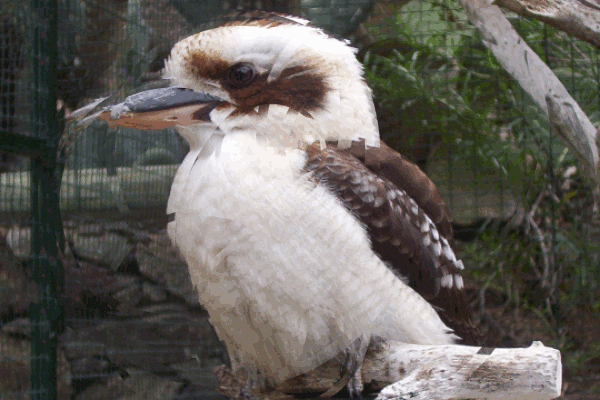
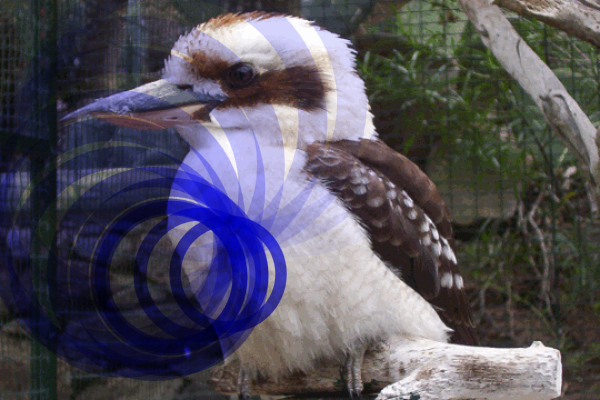
completed bugfixing for multiFilter

diff --git a/demos/js/demo102.js b/demos/js/demo102.js
@@ -52,9 +52,12 @@ var mycode = function() {
 		shown: false
 	});
 
-	scrawl.makeGreyscaleFilter({
+	scrawl.makeMultiFilter({
 		name: 'demo5_filter',
-		alpha: 0
+		filters: scrawl.makeFilter({
+			multiFilter: 'demo5_filter', 
+			species: 'cyan'
+		})
 	});
 
 	counter = scrawl.makePhrase({
@@ -191,20 +194,24 @@ var mycode = function() {
 		pasteHeight: '100%',
 		pasteX: '0%',
 		pasteY: '0%',
-		filters: ['demo5_filter'],
+		// filters: ['demo5_filter'],
+		// multiFilter: 'demo5_filter',
 		order: 2,
 		globalCompositeOperation: 'source-over',
 		globalAlpha: 1
 	}).clone({
 		name: 'demo5_canalFactory',
 		source: 'walkCanalFactory',
-		filters: [],
+		// filters: [],
+		// multiFilter: '',
+		multiFilter: 'demo5_filter',
 		globalCompositeOperation: 'destination-over',
 		order: 7
 	}).clone({
 		name: 'demo5_canalFlats',
 		group: 'demo5_canalCell',
 		source: 'walkCanalFlats',
+		multiFilter: '',
 		globalCompositeOperation: 'source-over',
 		order: 0
 	});
@@ -562,7 +569,7 @@ var mycode = function() {
 			engine: 'easeOut'
 		}]
 	}).clone({
-		targets: 'demo5_filter',
+		targets: 'demo5_canalFlower',
 		time: '72%',
 		duration: '10%',
 		definitions: [{
@@ -756,6 +763,19 @@ var mycode = function() {
 		}
 	}).clone({
 		targets: 'demo5_canalFactory',
+		time: '82.5%',
+		action: function() {
+			this.updateTargets({
+				multiFilter: ''
+			})
+		},
+		revert: function() {
+			this.updateTargets({
+				multiFilter: 'demo5_filter'
+			})
+		}
+	}).clone({
+		targets: 'demo5_canalFactory',
 		time: '87%',
 		action: function() {
 			this.updateTargets({
@@ -856,7 +876,7 @@ var mycode = function() {
 scrawl.loadExtensions({
 	path: '../source/',
 	minified: false,
-	extensions: ['stacks', 'phrase', 'images', 'block', 'path', 'factories', 'animation', 'filters', 'shape', 'frame'],
+	extensions: ['stacks', 'phrase', 'images', 'block', 'path', 'factories', 'animation', 'multifilters', 'shape', 'frame'],
 	callback: function() {
 		window.addEventListener('load', function() {
 			scrawl.init();

diff --git a/demos/js/demo093.js b/demos/js/demo093.js
@@ -16,7 +16,9 @@ var mycode = function() {
 		kill = [],
 		counter = 0,
 		filterEntitys,
-		newRing;
+		newRing,
+		choke = 120,
+		time = Date.now();
 
 	//add canvas to web page
 	scrawl.addCanvasToPage({
@@ -28,16 +30,20 @@ var mycode = function() {
 	canvas = scrawl.canvas.myCanvas;
 	pad = scrawl.pad.myCanvas;
 
-	//define filters
-	scrawl.makeSaturationFilter({
+	scrawl.makeMultiFilter({
 		name: 'sat',
-		saturation: 3
+		stencil: true,
+		filters: scrawl.makeFilter({
+			multiFilter: 'sat', 
+			species: 'blue',
+		})
 	});
 
 	//define groups
 	group = scrawl.makeGroup({
 		name: 'ripples',
-		order: 1
+		order: 1,
+		multiFilter: 'sat'
 	});
 
 	//define entitys
@@ -59,14 +65,12 @@ var mycode = function() {
 			name: 'drop' + counter,
 			start: here,
 			radius: 1,
-			method: 'none',
+			method: 'draw',
 			handleX: 10,
 			handleY: 10,
 			lineWidth: 1,
 			group: 'ripples',
 			order: counter,
-			filters: ['sat'],
-			filterOnStroke: true
 		});
 	};
 	scrawl.addListener('up', newRing, canvas);
@@ -76,6 +80,11 @@ var mycode = function() {
 		if (e) {
 			e.stopPropagation();
 			e.preventDefault();
+		}
+		var now = Date.now();
+		if(choke + time < now){
+			newRing();
+			time = now;
 		}
 	}, canvas);
 
@@ -90,7 +99,7 @@ var mycode = function() {
 			});
 			for (var i = 0, z = group.entitys.length; i < z; i++) {
 				currentEntity = scrawl.entity[group.entitys[i]];
-				if (currentEntity.radius > 120) {
+				if (currentEntity.getRadius() > 200) {
 					kill.push(currentEntity.name);
 				}
 			}
@@ -113,7 +122,7 @@ var mycode = function() {
 scrawl.loadExtensions({
 	path: '../source/',
 	minified: false,
-	extensions: ['images', 'wheel', 'animation', 'filters'],
+	extensions: ['images', 'wheel', 'animation', 'multifilters'],
 	callback: function() {
 		window.addEventListener('load', function() {
 			scrawl.init();

diff --git a/source/scrawlWheel.js b/source/scrawlWheel.js
@@ -210,8 +210,8 @@ Augments Entity.set()
 			if (xt(items.radius)) {
 				this.radius = items.radius;
 				this.localRadius = this.setRadius(this.radius);
-				this.width = this.localRadius * 2;
-				this.height = this.width;
+				// this.width = this.localRadius * 2;
+				// this.height = this.width;
 			}
 			if (xt(items.checkHitRadius)) {
 				this.localCheckHitRadius = this.setRadius(this.checkHitRadius);
@@ -236,6 +236,15 @@ set helper function
 			return 0;
 		};
 		/**
+get the current radius value, in pixels
+@method getRadius
+@return Number - local radius value
+@private
+**/
+		my.Wheel.prototype.getRadius = function(item) {
+			return this.localRadius;
+		};
+		/**
 Augments Entity.setDelta()
 @method setDelta
 @param {Object} items Object consisting of key:value attributes
@@ -253,8 +262,8 @@ Augments Entity.setDelta()
 					this.radius = my.addPercentages(this.radius, items.radius);
 				}
 				this.localRadius += r;
-				this.width = this.localRadius * 2;
-				this.height = this.width;
+				// this.width = this.localRadius * 2;
+				// this.height = this.width;
 			}
 			if (xt(items.checkHitRadius)) {
 				r = this.setRadius(items.checkHitRadius);
